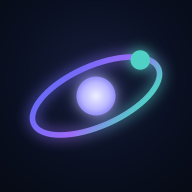
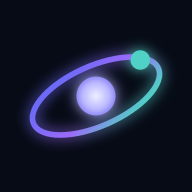
fix(web): light-mode system bars and app mark, cleaner OS splash
System bars stayed dark in light mode for two reasons, both fixed:

- `viewportFit: 'cover'` told Chrome the page paints its own system-bar areas,
  so it stopped filling them with theme-color and left dark bands behind the
  status and navigation bars. Dropping edge-to-edge hands those bars back to
  theme-color.
- applyTheme() was only ever called by the theme toggle, which lives in the
  header — absent on the launch screen and the signed-out pages, so their
  chrome kept whatever colour was last set. A ThemeSync at app root now asserts
  it on every mount, and the pre-paint script runs unconditionally rather than
  only when a stored choice exists.

applyTheme also replaces the theme-color tag (removing duplicates) instead of
editing the first match: a stale or media-scoped tag wins unpredictably, and
the symptom is a status bar stuck on the wrong colour.

App mark: the tile and core colours are CSS custom properties now, so the mark
inverts for light mode — pale tile, violet core, hairline border. The dark tile
on a light launch screen read as a sticker dropped on the page, and a near-white
core would have vanished on a pale tile.

OS splash: the maskable icon gets its own source with a FLAT background matching
the manifest's background_color. Android draws the launch splash as this icon on
that colour, so the radial version left a visible squircle sitting on the
splash; flat, the tile edge disappears and the mark floats. gen-icons.mjs now
takes a per-target source.
[…]

Changed region(s): [[0.3125, 0.1875, 0.5938, 0.3438], [0.5312, 0.3438, 0.7188, 0.5], [0.3125, 0.5, 0.375, 0.5625]]

diff --git a/apps/web/src/app/layout.tsx b/apps/web/src/app/layout.tsx
@@ -28,10 +28,14 @@ export const metadata: Metadata = {
 };
 
 export const viewport: Viewport = {
-  // Matches the app's dark background so the status/URL bar blends in.
+  // The app's default (dark) colour; applyTheme() repaints this at runtime to
+  // match the chosen theme, which is what tints the phone's status bar.
   themeColor: '#070b16',
-  // Draw under the iOS notch/home indicator when running installed.
-  viewportFit: 'cover',
+  // NOTE: deliberately no `viewportFit: 'cover'`. Edge-to-edge tells Chrome the
+  // page paints its own system-bar areas, so it stops filling them with
+  // theme-color and leaves dark bands instead — which is why the status and
+  // navigation bars stayed black in light mode. Letting the viewport end at the
+  // safe area puts those bars back under theme-color's control.
 };
 
 /**
@@ -40,7 +44,7 @@ export const viewport: Viewport = {
  * and the PWA's title bar follow. Without that second line those bars stay dark
  * in light mode, since the manifest's theme_color is a single fixed value.
  */
-const themeInit = `try{var t=localStorage.getItem('pv-theme');if(t==='light'||t==='dark'){document.documentElement.dataset.theme=t;var m=document.querySelector('meta[name="theme-color"]');if(m)m.setAttribute('content',t==='light'?'#f4f6fc':'#070b16')}}catch(e){}`;
+const themeInit = `try{var t=localStorage.getItem('pv-theme')==='light'?'light':'dark';document.documentElement.dataset.theme=t;var m=document.querySelectorAll('meta[name="theme-color"]');for(var i=0;i<m.length;i++)m[i].remove();var n=document.createElement('meta');n.name='theme-color';n.content=t==='light'?'#f4f6fc':'#070b16';document.head.appendChild(n)}catch(e){}`;
 
 export default function RootLayout({ children }: { children: ReactNode }) {
   return (

diff --git a/apps/web/src/components/app-splash.tsx b/apps/web/src/components/app-splash.tsx
@@ -18,11 +18,15 @@
 function SplashMark() {
   return (
     <svg width="104" height="104" viewBox="0 0 512 512" role="img" aria-label="Pocketverse">
+      {/* Tile and core colours come from CSS custom properties so the mark can
+          invert for light mode — a dark tile on a light launch screen reads as
+          a sticker dropped on the page. The orbit ring is brand gradient and
+          works on either. */}
       <defs>
         <radialGradient id="pv-splash-bg" cx="50%" cy="42%" r="72%">
-          <stop offset="0%" stopColor="#161d3a" />
-          <stop offset="60%" stopColor="#0a1022" />
-          <stop offset="100%" stopColor="#070b16" />
+          <stop offset="0%" stopColor="var(--pv-mark-tile-1)" />
+          <stop offset="60%" stopColor="var(--pv-mark-tile-2)" />
+          <stop offset="100%" stopColor="var(--pv-mark-tile-3)" />
         </radialGradient>
         <linearGradient id="pv-splash-ring" x1="14%" y1="18%" x2="88%" y2="86%">
           <stop offset="0%" stopColor="#6d6af8" />
@@ -30,9 +34,9 @@ function SplashMark() {
           <stop offset="100%" stopColor="#4fd1c5" />
         </linearGradient>
         <radialGradient id="pv-splash-core" cx="50%" cy="50%" r="50%">
-          <stop offset="0%" stopColor="#eef0ff" />
-          <stop offset="70%" stopColor="#b9b6ff" />
-          <stop offset="100%" stopColor="#8f8bf6" />
+          <stop offset="0%" stopColor="var(--pv-mark-core-1)" />
+          <stop offset="70%" stopColor="var(--pv-mark-core-2)" />
+          <stop offset="100%" stopColor="var(--pv-mark-core-3)" />
         </radialGradient>
         <filter id="pv-splash-glow" x="-60%" y="-60%" width="220%" height="220%">
           <feGaussianBlur stdDeviation="18" result="b" />

diff --git a/apps/web/src/lib/theme.ts b/apps/web/src/lib/theme.ts
@@ -11,11 +11,30 @@ export const THEME_COLORS: Record<Theme, string> = {
   light: '#f4f6fc',
 };
 
-/** Applies a theme to the document: page styling *and* browser chrome. */
+/**
+ * Applies a theme to the document: page styling *and* browser chrome.
+ *
+ * The theme-color tag is replaced rather than edited, and any duplicates are
+ * removed first: a stale or media-scoped tag left in the document wins
+ * unpredictably, and the symptom is a status bar stuck on the wrong colour.
+ */
 export function applyTheme(theme: Theme): void {
   document.documentElement.dataset.theme = theme;
-  const meta = document.querySelector('meta[name="theme-color"]');
-  if (meta) {
-    meta.setAttribute('content', THEME_COLORS[theme]);
+  document.querySelectorAll('meta[name="theme-color"]').forEach((tag) => tag.remove());
+  const meta = document.createElement('meta');
+  meta.name = 'theme-color';
+  meta.content = THEME_COLORS[theme];
+  document.head.appendChild(meta);
+}
+
+/** The theme in effect: the stored choice, else the app default (dark). */
+export function storedTheme(): Theme {
+  if (typeof window === 'undefined') {
+    return 'dark';
+  }
+  try {
+    return window.localStorage.getItem('pv-theme') === 'light' ? 'light' : 'dark';
+  } catch {
+    return 'dark';
   }
 }

diff --git a/apps/web/src/components/providers.tsx b/apps/web/src/components/providers.tsx
@@ -1,10 +1,24 @@
 'use client';
 
 import { QueryClient, QueryClientProvider } from '@tanstack/react-query';
-import { useState, type ReactNode } from 'react';
+import { useEffect, useState, type ReactNode } from 'react';
+import { applyTheme, storedTheme } from '@/lib/theme';
 import { DialogsProvider } from '@/components/dialogs';
 import { OfflineBanner } from '@/components/offline-banner';
 import { PwaRegister } from '@/components/pwa-register';
+
+/**
+ * Re-asserts the theme (and with it the status-bar colour) at app root. The
+ * toggle lives in the header, which isn't rendered on the launch screen or the
+ * signed-out pages — so relying on it alone left those screens' browser chrome
+ * on whatever colour was last set.
+ */
+function ThemeSync() {
+  useEffect(() => {
+    applyTheme(storedTheme());
+  }, []);
+  return null;
+}
 
 export function Providers({ children }: { children: ReactNode }) {
   const [queryClient] = useState(
@@ -18,6 +32,7 @@ export function Providers({ children }: { children: ReactNode }) {
 
   return (
     <QueryClientProvider client={queryClient}>
+      <ThemeSync />
       <PwaRegister />
       <OfflineBanner />
       <DialogsProvider>{children}</DialogsProvider>

diff --git a/apps/web/src/app/globals.css b/apps/web/src/app/globals.css
@@ -445,8 +445,32 @@ button {
     env(safe-area-inset-left);
 }
 
+/* App-mark colours. Dark: a deep tile with a luminous white core. Light: a pale
+   tile with a violet core — a near-white core would simply vanish on it. */
 .pv-splash svg {
   color: var(--pv-accent);
+  --pv-mark-tile-1: #161d3a;
+  --pv-mark-tile-2: #0a1022;
+  --pv-mark-tile-3: #070b16;
+  --pv-mark-core-1: #eef0ff;
+  --pv-mark-core-2: #b9b6ff;
+  --pv-mark-core-3: #8f8bf6;
+}
+
+[data-theme='light'] .pv-splash svg {
+  --pv-mark-tile-1: #ffffff;
+  --pv-mark-tile-2: #f3f5fd;
+  --pv-mark-tile-3: #e8ecf8;
+  --pv-mark-core-1: #a5a2ff;
+  --pv-mark-core-2: #7d79f7;
+  --pv-mark-core-3: #5f5ce4;
+}
+
+/* The tile needs an edge in light mode — without it the pale tile dissolves
+   into the pale background and the mark looks unfinished. */
+[data-theme='light'] .pv-splash svg rect {
+  stroke: rgba(45, 55, 100, 0.12);
+  stroke-width: 2;
 }
 
 .pv-splash-name {
